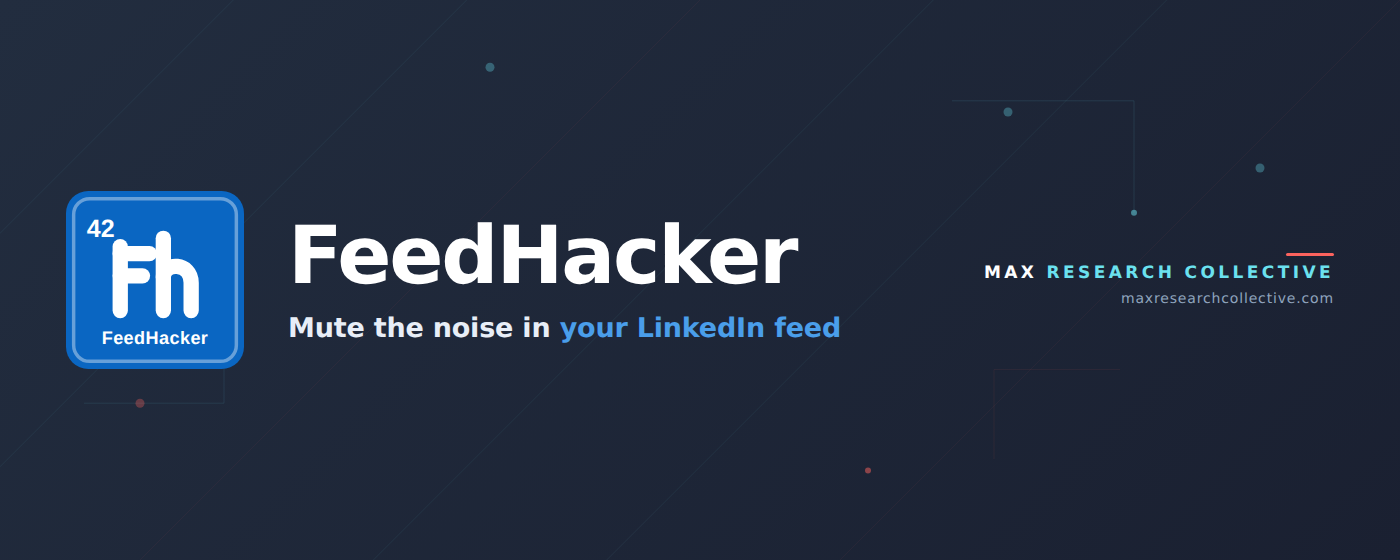
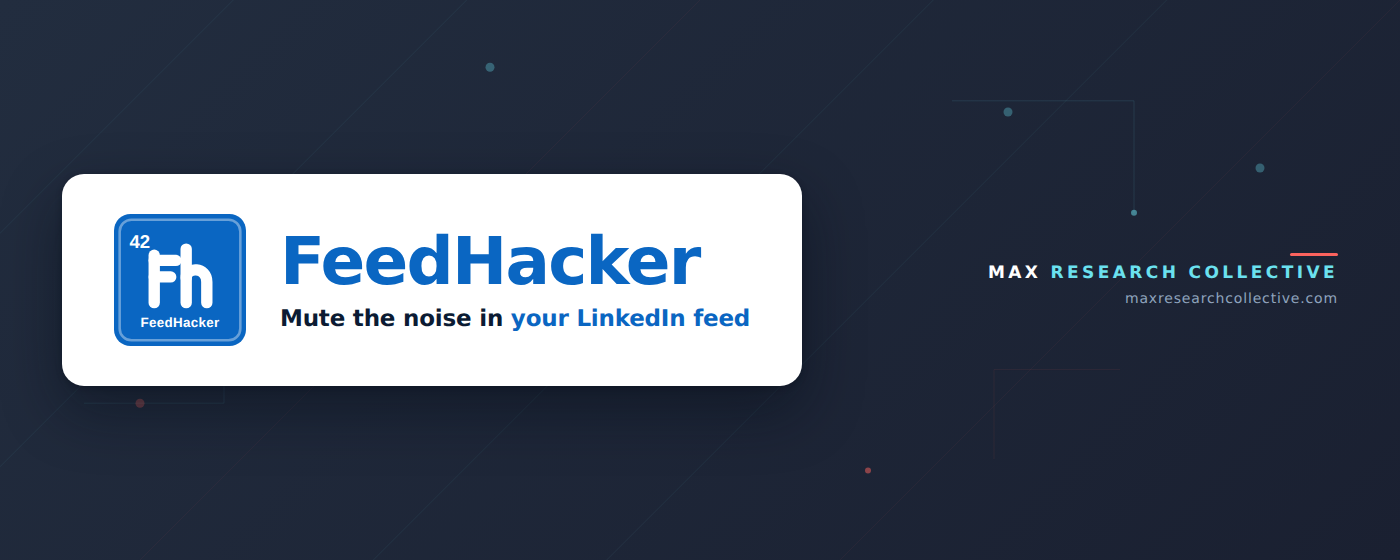
design: keep FeedHacker's blue as designed, and generate a full submission bundle
Two maintainer instructions.

1) "keep the blue as designed" — overruling the adaptation I had flagged.

The first pass reversed FeedHacker's #0A66C2 wordmark to white so it would read
on the dark navy field. That was a judgement call against "leave FeedHacker as
designed", so it was called out rather than presented as polish — and it was the
wrong call. The whole FeedHacker lockup now sits on a WHITE CARD over the MRC
field: blue wordmark, blue tagline emphasis, the element tile untouched, nothing
of FeedHacker's recoloured. It also matches how the 1280x800 screenshots already
present the product — a white card with a soft shadow on a coloured ground — so
the promo tiles now belong to the same family rather than being an exception.

Flagging the call is what made the correction cheap. Smuggled in, it would have
shipped.

2) "create the whole package with required files ... for new submission".

`npm run store:shots` now also writes dist/store-upload/SUBMISSION.md: every
Developer Dashboard field, in the order the UI asks for them —

  package + the permission actually declared in manifest.json
  name / summary / category / language
  the graphics table, each file with its real pixel size read from the PNG
  single purpose, permission justifications, data-usage disclosures
  the privacy policy URL, and the note that the checker wants the hosted Pages
    copy rather than a raw.githubusercontent.com link served as text/plain
  distribution
[…]

Changed region(s): [[0.0307, 0.3036, 0.6143, 0.6982], [0.7064, 0.4554, 0.9521, 0.5464]]

diff --git a/SESSION-STATE.md b/SESSION-STATE.md
@@ -100,14 +100,24 @@ Newest first. One entry per session; keep entries short and factual.
   all caps, wide tracking, **MAX** white and **RESEARCH COLLECTIVE** cyan, over a short coral
   rule. FeedHacker's element tile is pixel-identical to `brand/logo-lockup.svg`: same `#0A66C2`,
   same 38% inner stroke, same 42 / Fh / caption.
-- **One adaptation, flagged rather than smuggled in.** FeedHacker's wordmark is `#0A66C2`, which
-  is unreadable on a dark navy field, so it reverses out to white and the tagline's emphasis uses
-  a lighter tint of the *same* blue (`#4a9eea`). That is the standard reversed treatment of the
-  existing design rather than a new one — but it is a judgement call, and the maintainer should
-  overrule it if they wanted the blue kept literally.
+- **The adaptation was flagged, and the maintainer overruled it — correctly.** The first pass
+  reversed FeedHacker's `#0A66C2` wordmark to white so it would read on the dark field. Their
+  instruction: *“keep the blue as designed.”* So the whole FeedHacker lockup now sits on a
+  **white card** over the MRC field — blue on white, nothing of FeedHacker's recoloured — which
+  also matches how the 1280×800 screenshots already present the product (a white card with a soft
+  shadow on a coloured ground). **Flagging the judgement call is what made the correction cheap**;
+  had it been smuggled in as "polish" it would have shipped.
 - **Both tiles are generated, not hand-made** (`npm run store:shots`, §70), in PNG and JPEG at
   the store's fixed 1400×560 and 440×280. **No version bump**: listing assets are an independent
   publish channel from the package (FH-033), so these can be uploaded on their own.
+- **A complete submission bundle now falls out of the same command.** `dist/store-upload/` gained
+  `SUBMISSION.md` — every Developer Dashboard field filled in, in the order the UI asks for them,
+  **read out of `store/listing.md` and `manifest.json` rather than retyped**, so it cannot drift
+  from what ships (the declared permission, the summary, the single purpose, the justifications,
+  the disclosures). Plus the privacy policy text, and the whole folder zipped as
+  `dist/feedhacker-<v>-submission.zip` so "export and load into the dashboard" is one download.
+  Fixed at the source while writing it: `listing.md`'s privacy-policy bullet still said "or the
+  raw file URL", which contradicts the hosted-Pages requirement it learned the hard way.
 - **Two bugs worth remembering, both invisible until rendered.** The whole first pass came out in
   Times, because `font-family:…"Segoe UI"…` was interpolated into a **double-quoted** style
   attribute and the inner quotes terminated it. And the two blocks together overflowed 1400px, so

diff --git a/store/listing.md b/store/listing.md
@@ -57,8 +57,9 @@ network requests — its curated AI-slop phrase list ships inside the package.
 - Remote code? **No** — all code is in the package; no eval of remote scripts.
 - Data sold to third parties? **No.**
 - Data used only for the single purpose above? **Yes** (and it never leaves the device).
-- **Privacy policy URL:** host `store/privacy-policy.md` (e.g. via GitHub Pages or the
-  raw file URL) and paste that link.
+- **Privacy policy URL:** `https://newellnarco.github.io/Feedhacker/privacy-policy.html`
+  — the hosted GitHub Pages copy. Do **not** paste a `raw.githubusercontent.com` link: raw
+  files are served as `text/plain` and Google's checker often flags them "not reachable".
 
 ## Graphics — all provided in this repo
 
